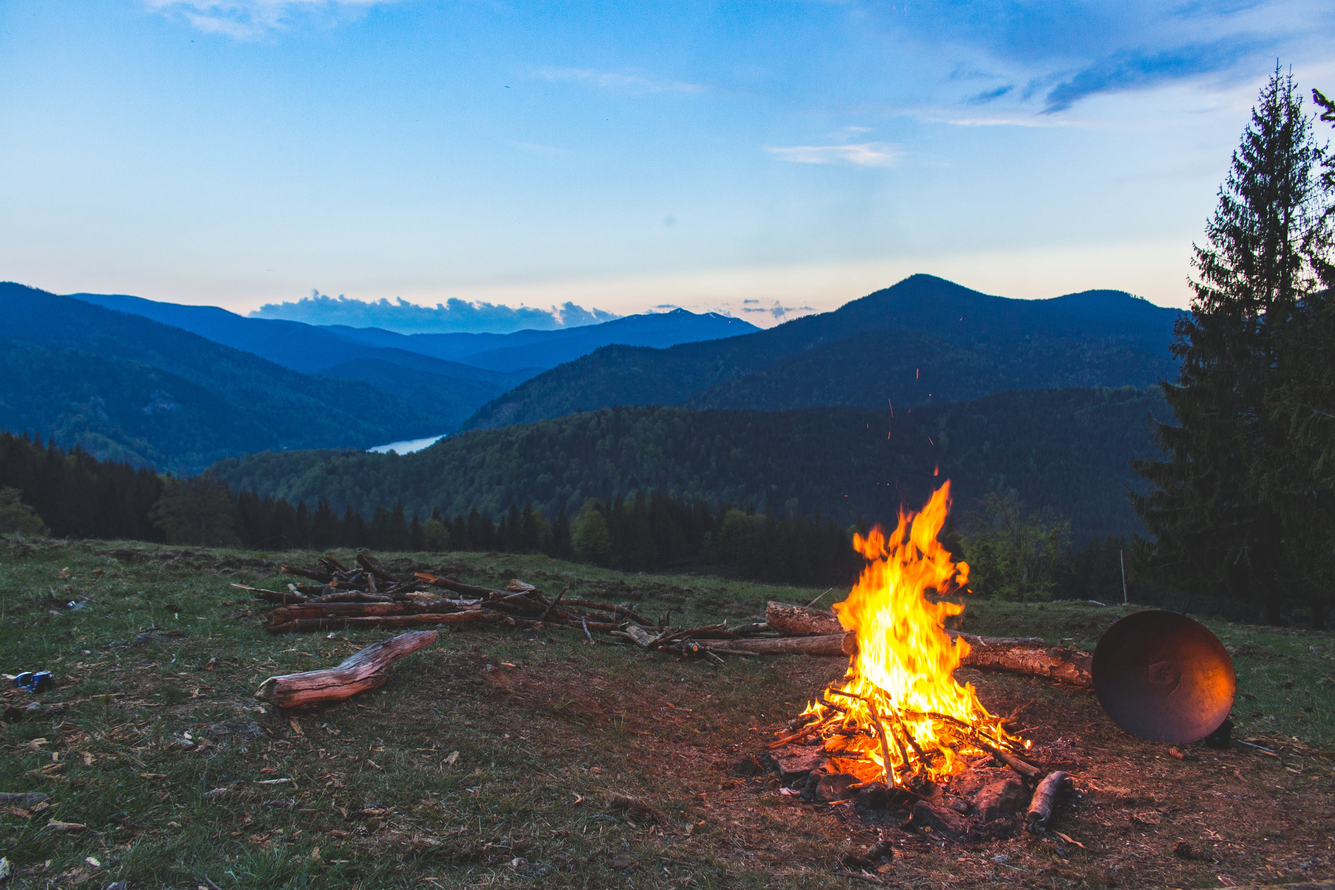
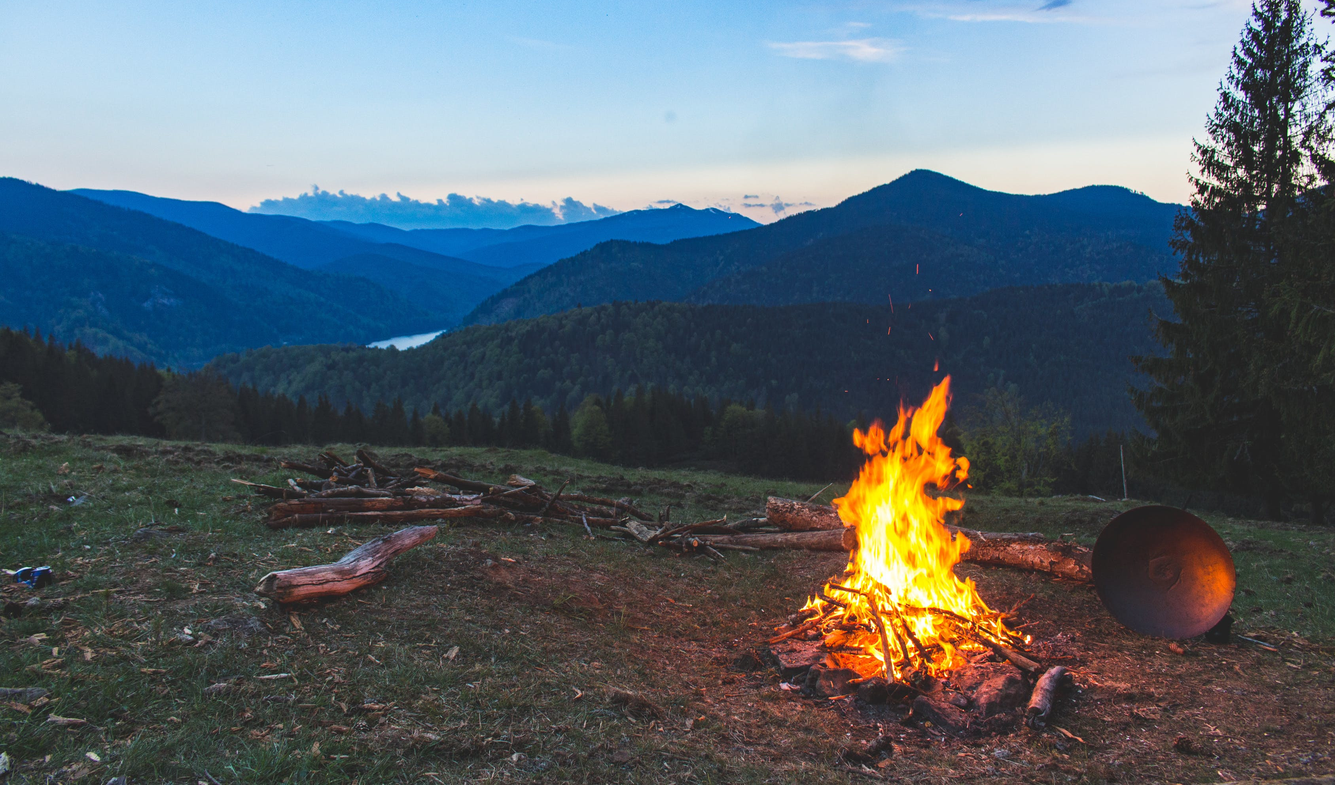
add nav and hero image

diff --git a/templates/base.html b/templates/base.html
@@ -15,8 +15,9 @@
         <link href="https://cdn.jsdelivr.net/npm/bootstrap@5.1.1/dist/css/bootstrap.min.css" rel="stylesheet" integrity="sha384-F3w7mX95PdgyTmZZMECAngseQB83DfGTowi0iMjiWaeVhAn4FJkqJByhZMI3AhiU" crossorigin="anonymous">
         <link rel="stylesheet" href="{{ STATIC_URL }}static/css/style.css"><link rel="preconnect" href="https://fonts.googleapis.com">
         <link rel="preconnect" href="https://fonts.gstatic.com" crossorigin>
-        <link href="https://fonts.googleapis.com/css2?family=Libre+Baskerville&display=swap" rel="stylesheet">
-    {% endblock %}
+        <link rel="preconnect" href="https://fonts.googleapis.com">
+        <link rel="preconnect" href="https://fonts.gstatic.com" crossorigin>
+        <link href="https://fonts.googleapis.com/css2?family=Libre+Baskerville&family=Montserrat:wght@300&display=swap" rel="stylesheet">     {% endblock %}
 
     {% block extra_css %}
     {% endblock %}
@@ -26,6 +27,7 @@
         <script src="https://cdn.jsdelivr.net/npm/bootstrap@5.1.1/dist/js/bootstrap.bundle.min.js" integrity="sha384-/bQdsTh/da6pkI1MST/rWKFNjaCP5gBSY4sEBT38Q/9RBh9AH40zEOg7Hlq2THRZ" crossorigin="anonymous"></script>
         <script src="https://cdn.jsdelivr.net/npm/@popperjs/core@2.9.3/dist/umd/popper.min.js" integrity="sha384-W8fXfP3gkOKtndU4JGtKDvXbO53Wy8SZCQHczT5FMiiqmQfUpWbYdTil/SxwZgAN" crossorigin="anonymous"></script>
         <script src="https://cdn.jsdelivr.net/npm/bootstrap@5.1.1/dist/js/bootstrap.min.js" integrity="sha384-skAcpIdS7UcVUC05LJ9Dxay8AXcDYfBJqt1CJ85S/CFujBsIzCIv+l9liuYLaMQ/" crossorigin="anonymous"></script>
+        <script src="https://kit.fontawesome.com/803ce1ce3c.js" crossorigin="anonymous"></script>
     {% endblock %}
 
     {% block extra_js %}

diff --git a/home/templates/home/index.html b/home/templates/home/index.html
@@ -6,7 +6,7 @@
             <nav class="navbar navbar-expand-lg navbar-light bg-light">
                 <a class="navbar-brand" href="#"><img src="{{ STATIC_URL }}static/logo-no-bg.png" alt=""></a>
                 <button class="navbar-toggler" type="button" data-toggle="collapse" data-target="#navbarNavDropdown" aria-controls="navbarNavDropdown" aria-expanded="false" aria-label="Toggle navigation">
-                <span class="navbar-toggler-icon"></span>
+                <div class="navbar-toggler-icon"></div>
                 </button>
                 <div class="collapse navbar-collapse" id="navBar">
                     <ul class="navbar-nav">
@@ -27,14 +27,17 @@
             </nav>
         </div>
         <div class="row" id="hero-content">
-            <div class="col m6" id="hero-blurb">
-                Kiln dried firewood <br>
-                pick up or delivery <br>
-                (Order)
+            <div class="col col-xs-12 col-md-8 col-lg-6 align-self-center">
+                <div class="my-auto" id="hero-blurb">
+                    <h1>Kiln-Dried Firewood</h1>
+                    <h3>Pick-up or Delivery</h3><br>
+                    <a href="#" class="btn btn-secondary">Order</a><br><br><br><br>
+                </div>
             </div>
-            <div class="col m6">
-
-            </div>
+        </div>
+        <div class="learn-more-text">
+            <h4>Learn More</h4>
+            <i class="fas fa-chevron-down"></i>
         </div>
     </div>
 {% endblock %}

diff --git a/home/static/css/style.css b/home/static/css/style.css
@@ -5,7 +5,7 @@ html, body {
 /* Navbar styling */
 
 #hero-image {
-    background: no-repeat 0px -350px url("/static/hero-bg.jpeg");
+    background: no-repeat top url("/static/hero-bg.jpeg");
     background-size: cover;
     margin: 0;
     max-width: 100%;
@@ -20,7 +20,7 @@ html, body {
 }
 
 .navbar-brand > img {
-    height: 150px;
+    height: 10vh;
     margin: 25px;
     margin-left: 75px;
 }
@@ -38,9 +38,27 @@ html, body {
     color: rgba(0,0,0,1);
 }
 
+.navbar-toggler {
+    position: absolute;
+}
+
 /* index page  styling */
 
 #hero-content {
-    display: block;
+    text-align: center;
+    height: 90vh;
+    color: #e3e6f2
+}
+
+#hero-blurb > h1 {
+    font-size: 54px;
+}
+
+/* Universal elements styling */
+
+/* Button */
+.btn {
+    font-family: "Montserrat", sans-serif;
+    color: #e3e6f2;
 }
 
